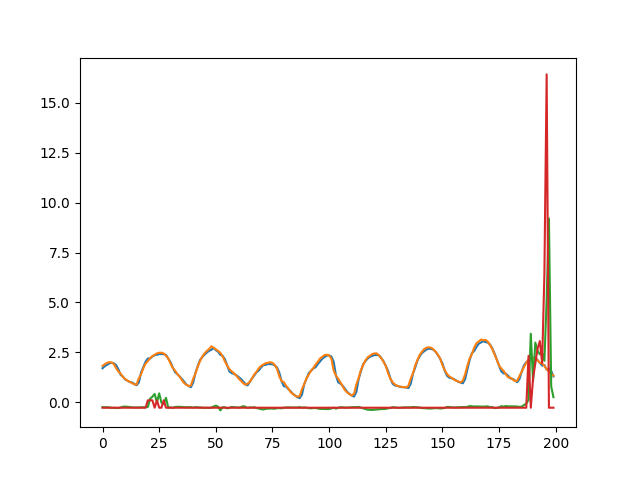
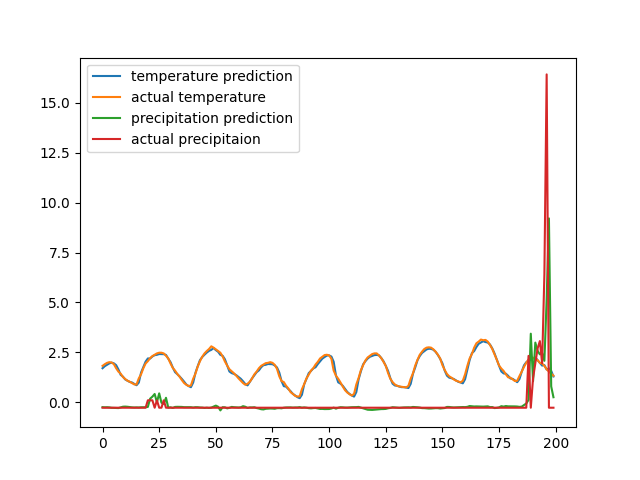
Description update

Changed region(s): [[0.125, 0.125, 0.4688, 0.3125]]

diff --git a/test.py b/test.py
@@ -59,9 +59,11 @@ for i in range(2):
 
 def plot_predictions(model,x,y,start=0,end=500000):
   predictions = model.predict(x[start:end])
-  for i in range(2):
-    plt.plot(predictions[:,i])
-    plt.plot(y[start:end][:,i])
+  plt.plot(predictions[:,0],label="temperature prediction")
+  plt.plot(y[start:end][:,0],label="actual temperature")
+  plt.plot(predictions[:,1],label="precipitation prediction")
+  plt.plot(y[start:end][:,1],label="actual precipitaion")
+  plt.legend()
   plt.show()
 
 model = keras.models.load_model("model1/")
